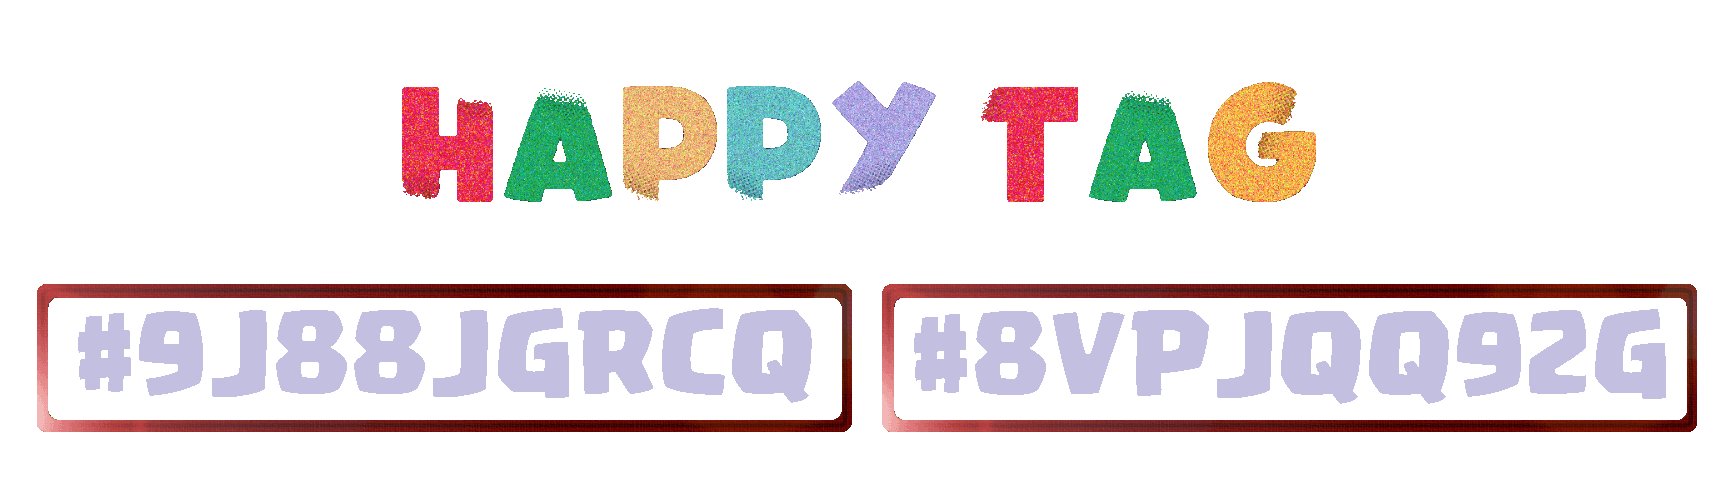
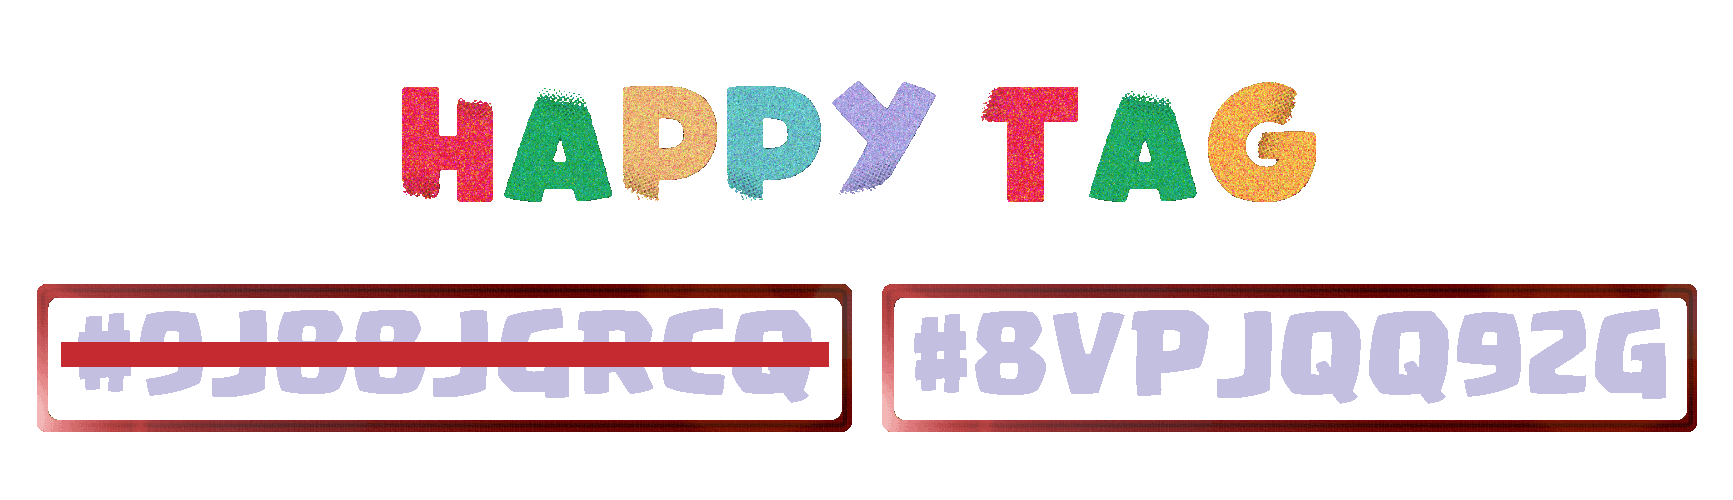
nowe tagi

Changed region(s): [[0.0312, 0.66, 0.4986, 0.75]]

diff --git a/szansa-dnia/index.html b/szansa-dnia/index.html
@@ -181,7 +181,7 @@
 
 <div class="mx-auto justify-center">
   <a href="/happy-tags">
-    <img src="/assets/img/happytagi7.png" class="md:w-64 w-56 mx-auto" />
+    <img src="/assets/img/happytagi8.png" class="md:w-64 w-56 mx-auto" />
   </a>
   <form action="https://api.staticforms.xyz/submit" method="POST">
     <div class="flex flex-col items-center mt-8 sm:mt-0 w-56 mx-auto">

diff --git a/happy-tags/index.html b/happy-tags/index.html
@@ -202,10 +202,10 @@
   <div class="md:w-1/3 p-2">
     <img class="rounded shadow" src="/assets/img/happytagi9.png" />
   </div>
+  -->
   <div class="md:w-1/3 p-2">
     <img class="rounded shadow" src="/assets/img/happytagi8.png" />
   </div>
-  -->
   <div class="md:w-1/3 p-2">
     <img class="rounded shadow" src="/assets/img/happytagi7.png" />
   </div>
